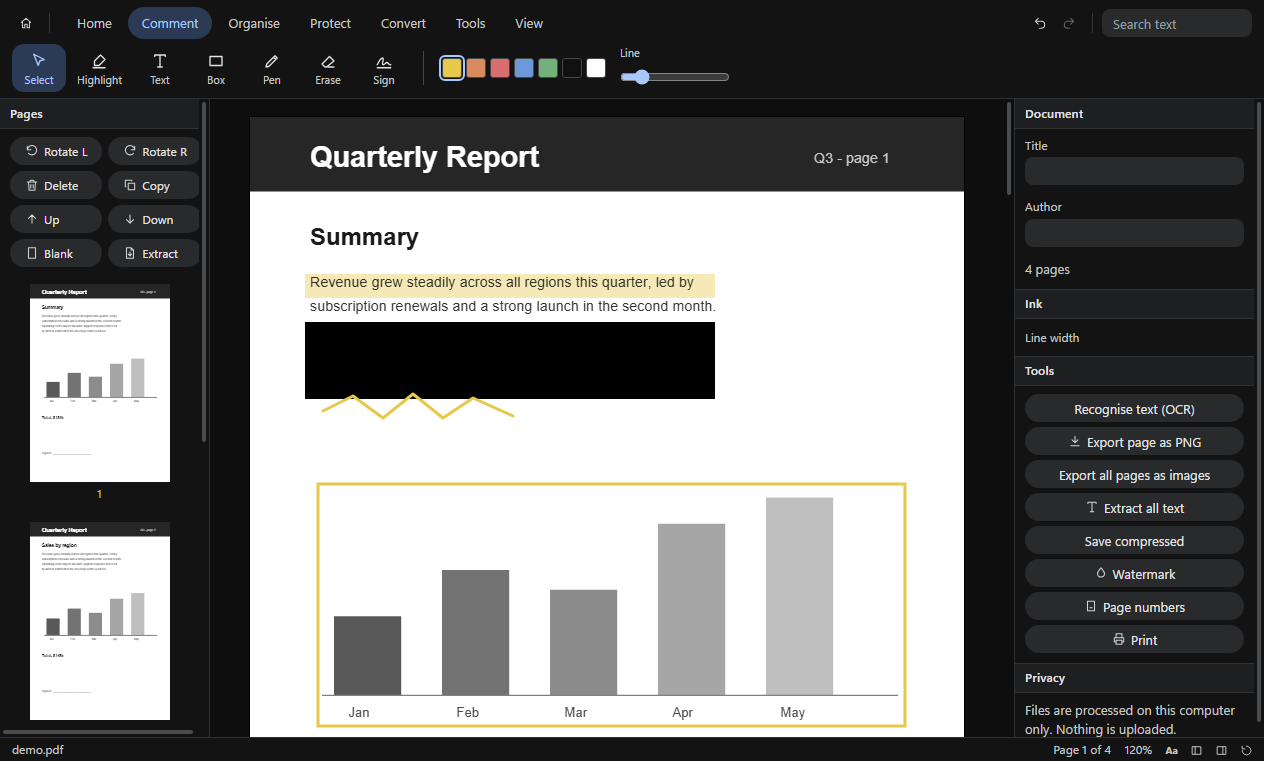
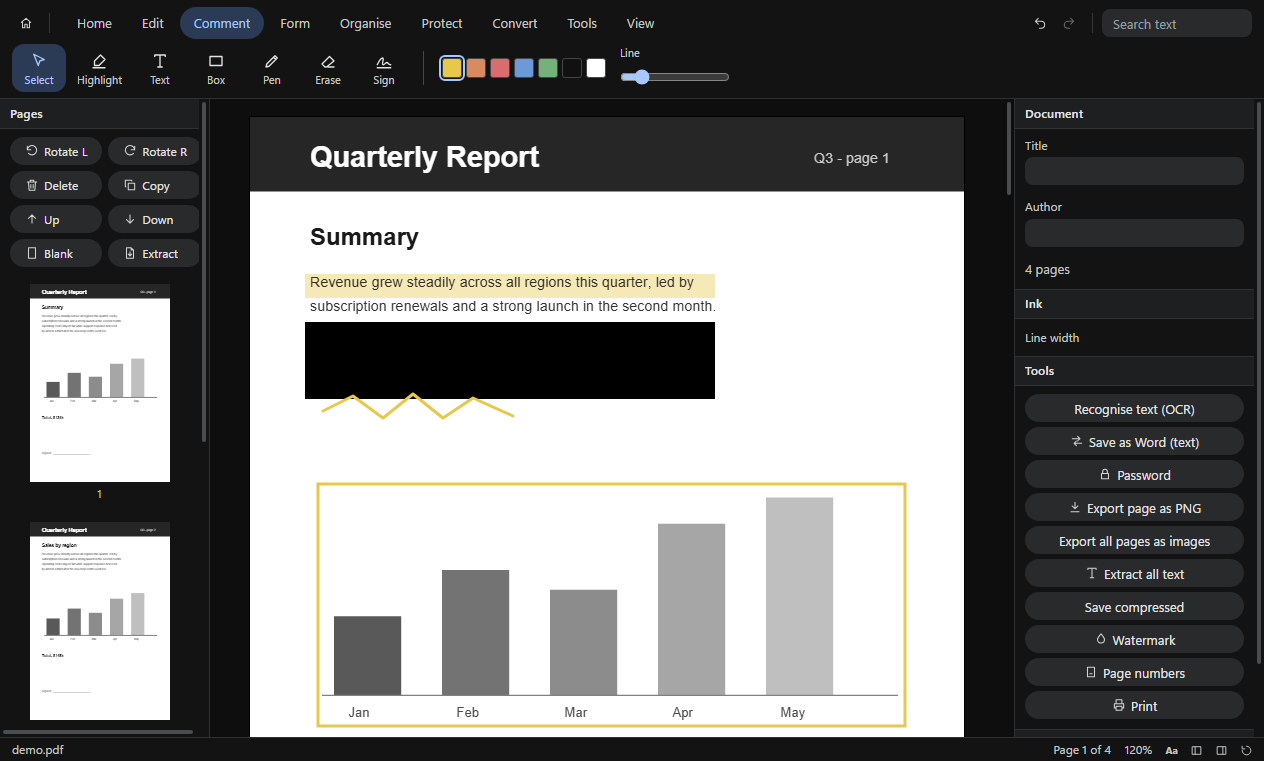
docs: PDFout 1.0.20 (password, form fields, Word text)

diff --git a/README.md b/README.md
@@ -92,7 +92,7 @@ Install, open, update and remove all ten apps from one window. **[Download the l
 - **Sign:** Draw your signature with a mouse, pen or touch screen and place it anywhere on a page; Resize the signature to fit the line
 
 <details>
-<summary><b>All 13 screenshots</b></summary>
+<summary><b>All 15 screenshots</b></summary>
 
 **The home screen.** PDFout opens on a start screen with quick tools, your recent files and a starred tab.
 
@@ -125,6 +125,14 @@ Install, open, update and remove all ten apps from one window. **[Download the l
 <img src="assets/shots/pdfout/11-edit-text-dialog.png" alt="Edit window" width="100%">
 
 <img src="assets/shots/pdfout/12-edit-text-result.png" alt="After editing" width="100%">
+
+**Form fields.** Open the Form tab, pick Text field, Checkbox or Dropdown and drag a rectangle on the page. They are saved as real fill-in fields that work in any PDF reader.
+
+<img src="assets/shots/pdfout/13-form-fields.png" alt="Drawing form fields" width="100%">
+
+**Password.** Open Protect > Password to lock the saved PDF with a password (256-bit encryption, made on your computer) and choose whether people may print, copy or edit. Locked PDFs ask for their password when opened. Convert > Word (text) saves the text as a Word file.
+
+<img src="assets/shots/pdfout/14-password-dialog.png" alt="Password dialog" width="100%">
 
 **Text recognition (OCR).** Open a scan or photo, choose Convert > OCR (English, Thai or both) and PDFout reads the words offline. Copy them, save them as text, keep them as a hidden searchable layer, or turn them into editable text boxes.
 
@@ -848,7 +856,7 @@ Install, open, update and remove all ten apps from one window. **[Download the l
 
 Every Lookout app follows the same design, so learning one teaches you the rest.
 
-- **Top bar** for files and tools, with a line icon on every button. (PDFout groups its tools into ribbon tabs: Home, Comment, Organise, Protect, Tools and View.) On smaller windows, less important buttons shrink to icons; hover to see their names.
+- **Top bar** for files and tools, with a line icon on every button. (PDFout groups its tools into ribbon tabs: Home, Edit, Comment, Form, Organise, Protect, Convert, Tools and View.) On smaller windows, less important buttons shrink to icons; hover to see their names.
 - **Left panel** for what you work with (pages, shapes, layers, media). **Right panel** for the settings of what is selected.
 - **Status bar** at the bottom with counts, length, zoom or progress.
 - **Shortcuts in common:** Ctrl + Z / Ctrl + Y undo and redo, Ctrl + S saves, Ctrl + O opens, Delete removes the selection, Space plays media or pans a canvas, Ctrl + mouse wheel zooms.
@@ -856,7 +864,7 @@ Every Lookout app follows the same design, so learning one teaches you the rest.
 
 ## What is new
 
-**Pageout is now PDFout**, with a home screen (quick tools, recent and starred files), offline OCR for English and Thai, editing the text of normal PDFs, picture and FDF/XFDF support, Print, Watermark, Page numbers and Export-all-pages-as-images. Every app also now shows its own name and icon in Task Manager and the taskbar instead of "Electron".
+**PDFout 1.0.20 adds passwords** (open and save locked PDFs), a Form tab for fill-in fields and a Word text export. **Pageout is now PDFout**, with a home screen (quick tools, recent and starred files), offline OCR for English and Thai, editing the text of normal PDFs, picture and FDF/XFDF support, Print, Watermark, Page numbers and Export-all-pages-as-images. Every app also now shows its own name and icon in Task Manager and the taskbar instead of "Electron".
 
 Every app now has a new look inspired by Google AI Studio, Colab and Gemini: a calm dark charcoal theme, rounded pill buttons, a soft blue accent and roomier spacing. Each app has a colour logo, shown in the Start menu and in the launcher. Every README was rewritten to explain, in plain words, what the app does, who it is for and how to start. All screenshots were taken again.
 
